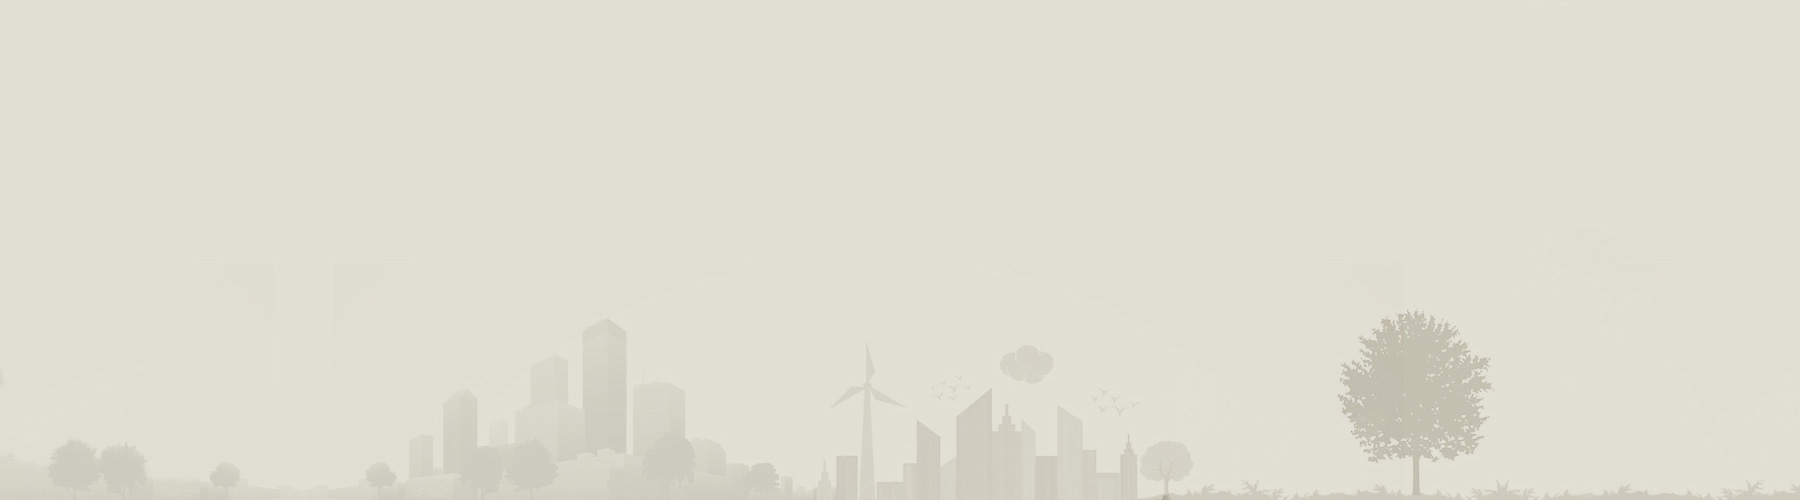
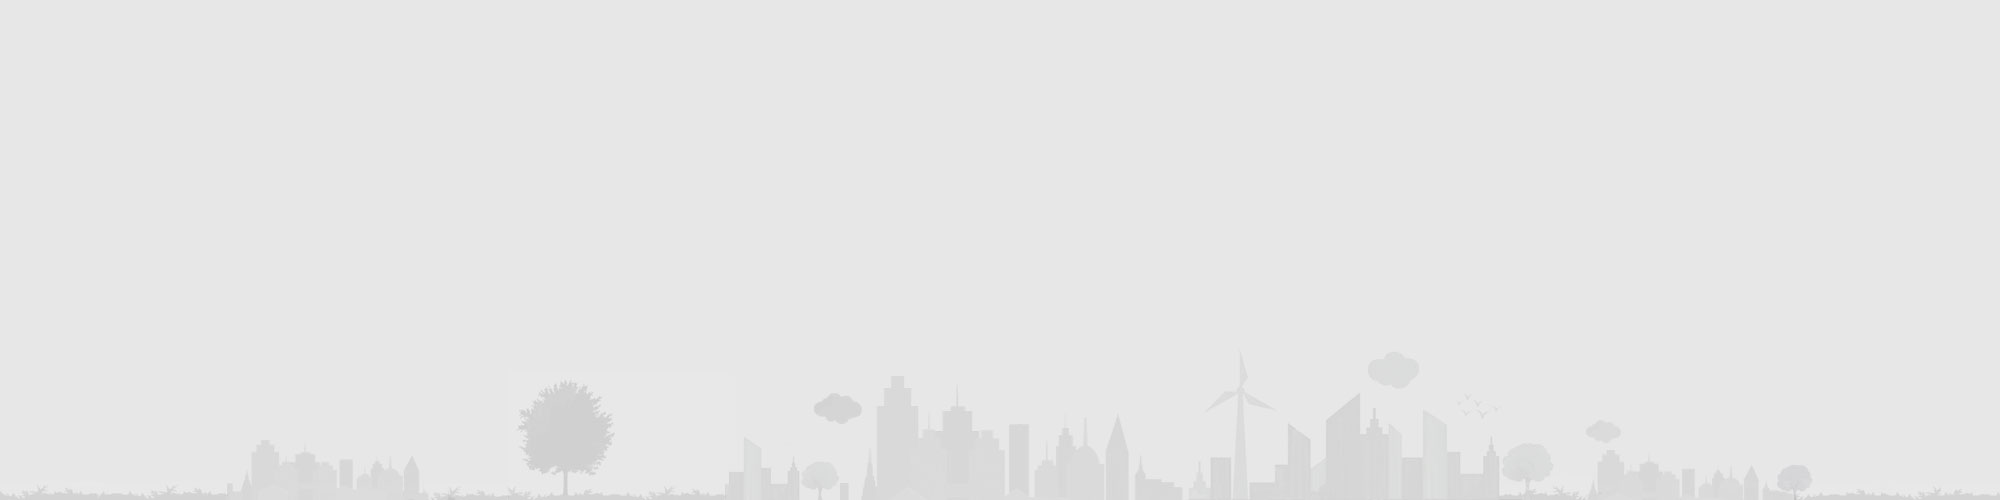
making left align everywhere

diff --git a/app/assets/stylesheets/styles.css b/app/assets/stylesheets/styles.css
@@ -146,7 +146,7 @@ a {
     float: left;
 }
 .justify-text {
-    text-align: justify !important;
+    text-align: left !important;
 }
 .bold-text {
     font-weight: bold !important;
@@ -313,8 +313,8 @@ body #fadelayer {
 }
 .moduleheading {
     font-size: 16px;
-    padding-top: 17px;
-    padding-bottom: 12px;
+    padding-top:8px;
+    padding-bottom:6px;
     font-family: 'Helvetica';
     color: #333333;
 }
@@ -516,6 +516,7 @@ h3.legalhead {
 }
 .footerul{
     padding-left: 0px;
+    margin-top:0px;
 }
 .footerul li {
     padding-top: 5px;
@@ -1140,7 +1141,7 @@ textarea.comntextarea {
     color: #EC8B00;
     font-family: 'Helvetica';
     font-size: 19px;
-    line-height: 27px;
+    line-height: 21px;
 }
 .headerSection {
     float: left;
@@ -1530,7 +1531,7 @@ textarea.comntextarea {
     font-family: Helvetica;
     font-size: 16px;
     margin-left: 16px;
-    margin-top: 6px;
+    margin-top: 6px !important;
     margin-bottom: 0px;
 }
 .pragraph p {
@@ -1832,6 +1833,7 @@ textarea.comntextarea {
 }
 .martop{
     margin-top:3%;
+    float:left;
 }
 .clear{
     clear:both;
@@ -1876,9 +1878,10 @@ textarea.comntextarea {
 }
 .downloadBrochure a{
     text-decoration:none;
-    padding: 13% 2%;
+    /*padding: 13% 2%;*/
+     padding: 8% 11%;
     float:left;
-    font-family: helvetica;
+    font-family: arial;
     font-size: 14px;
     color: #333333;
 
@@ -1923,8 +1926,8 @@ textarea.comntextarea {
 .biggerparagraph{
     float:left;
     font-size: 14px;
-    margin-bottom: 8px;
-    text-align: justify;
+    margin-bottom: 12px;
+    text-align: left;
 }
 .anchorclass{
     text-decoration:underline;
@@ -1948,13 +1951,15 @@ textarea.comntextarea {
     width:100%;
 
     border-bottom: 1px solid #EDEDED;
-    padding: 3% 0;
+    padding: 1% 0;
 }
 .rubycodeContiner .headerImage.innerpadding{
     padding: 6% 5%;
 }
 .rubycodeContiner .projectContiner{
-    padding-bottom:0px;
+    margin-bottom: 12px;
+    margin-top: 12px;
+    padding-bottom: 0;
 }
 .rubycodeContiner a{
     float:left;
@@ -2205,8 +2210,10 @@ a {
      margin-bottom: 10px;
 }
 .video-embed-wrapper {
-    clear: both;
+   clear: both;
     float: left;
+    margin-bottom: 14px;
+    margin-top: 2px;
     width: 100%;
 }
 
@@ -2362,7 +2369,7 @@ p.AlignLeft{
     margin-bottom: 0px;
 }
 .sidebarmenu .greyBoxParagraph p{
-    margin-bottom:0px;
+    margin-bottom:5px;
     margin-top:0px;
 }
 .pragraphFormate p{
@@ -2375,7 +2382,7 @@ p.AlignLeft{
     margin-top: 0;
 }
 
-/****15th dec**/
+/****refinery changes**/
 .text-align-center{
     text-align: center;
     width:100%;
@@ -2404,4 +2411,51 @@ p.AlignLeft{
 }
 .font-size-large {
     font-size: 150%;
+}
+
+/****refinery changes**/
+
+.contentHeaderSection.contentheaderpadding {
+    padding-bottom:2%;
+    padding-top:1%;
+}
+.contentHeaderSection.otherspectialcontent{
+    padding-top:2%;
+}
+.ullist.marginulist {
+   margin-bottom: 10px;
+   margin-top: 0;
+}
+.subcontentheading.adjustmarginheading{
+    float:left;
+    margin-bottom:5px;
+    margin-top:5px;
+}
+.leftrightContainer.marginleftrightcontainer{
+    margin-bottom: 18px;
+}
+p.paragraphtopbottom {
+    float: left;
+    margin-bottom: 5px !important;
+    margin-top: 10px !important;
+}
+.addressdivcity.quickborder.adressmargintop{
+    margin-top: 5px;
+}
+.RightContentSection.sub-desc-page > p {
+    margin-bottom: 0;
+    margin-top: 5px;
+}
+p.margin-history{
+    margin-bottom: 3px;
+    margin-top:2px;
+}
+.contentheading.customerheading {
+    float: left;
+    margin-bottom: 5px;
+    margin-top: 18px;
+}
+.careerparagraph.margincareers {
+    margin-bottom: 7px;
+    margin-top: 5px;
 }

diff --git a/app/assets/stylesheets/responsive-slider-paralax.css b/app/assets/stylesheets/responsive-slider-paralax.css
@@ -68,7 +68,7 @@
   background-image: url(../assets/background-paralax.jpg);
   background-size: cover;
   background-position: 0 0;
-  border-bottom:6px solid #8E8B78;
+  border-bottom:6px solid #aeaeae;
   /*cursor: url(../assets/openhand.cur.bmp) 4 4, move;*/
 }
 .responsive-slider-parallax .slides-container.drag {
